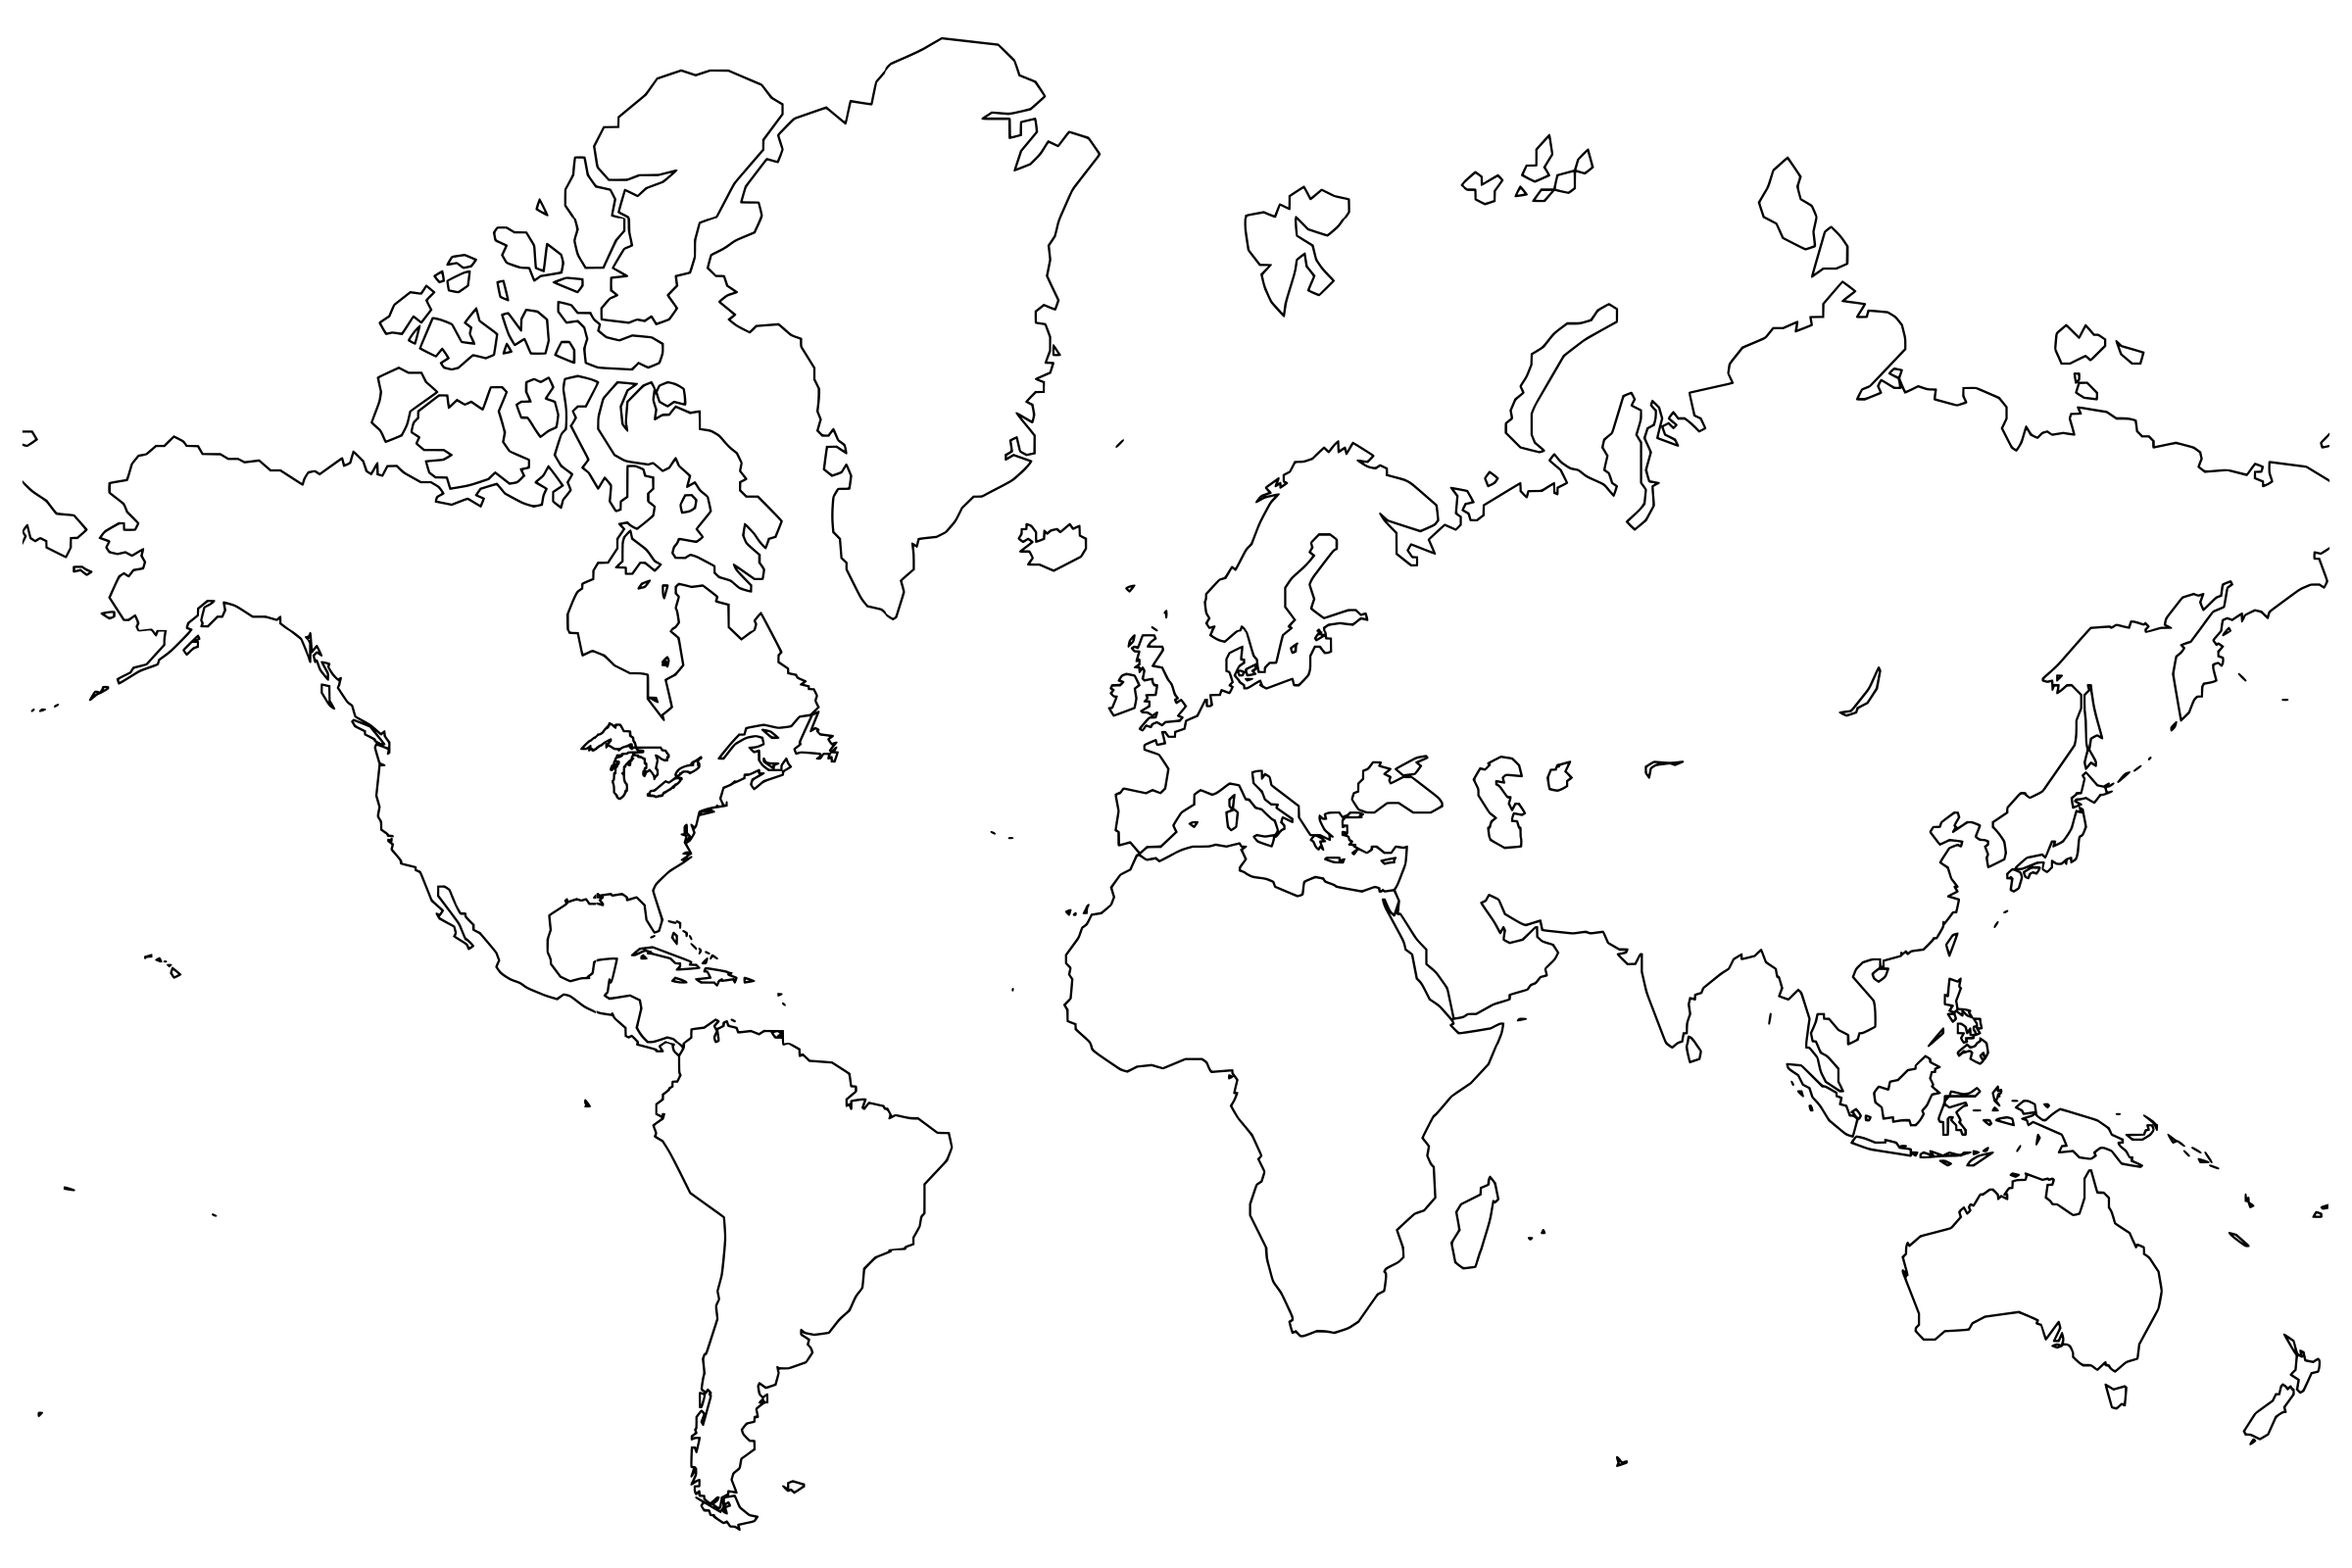
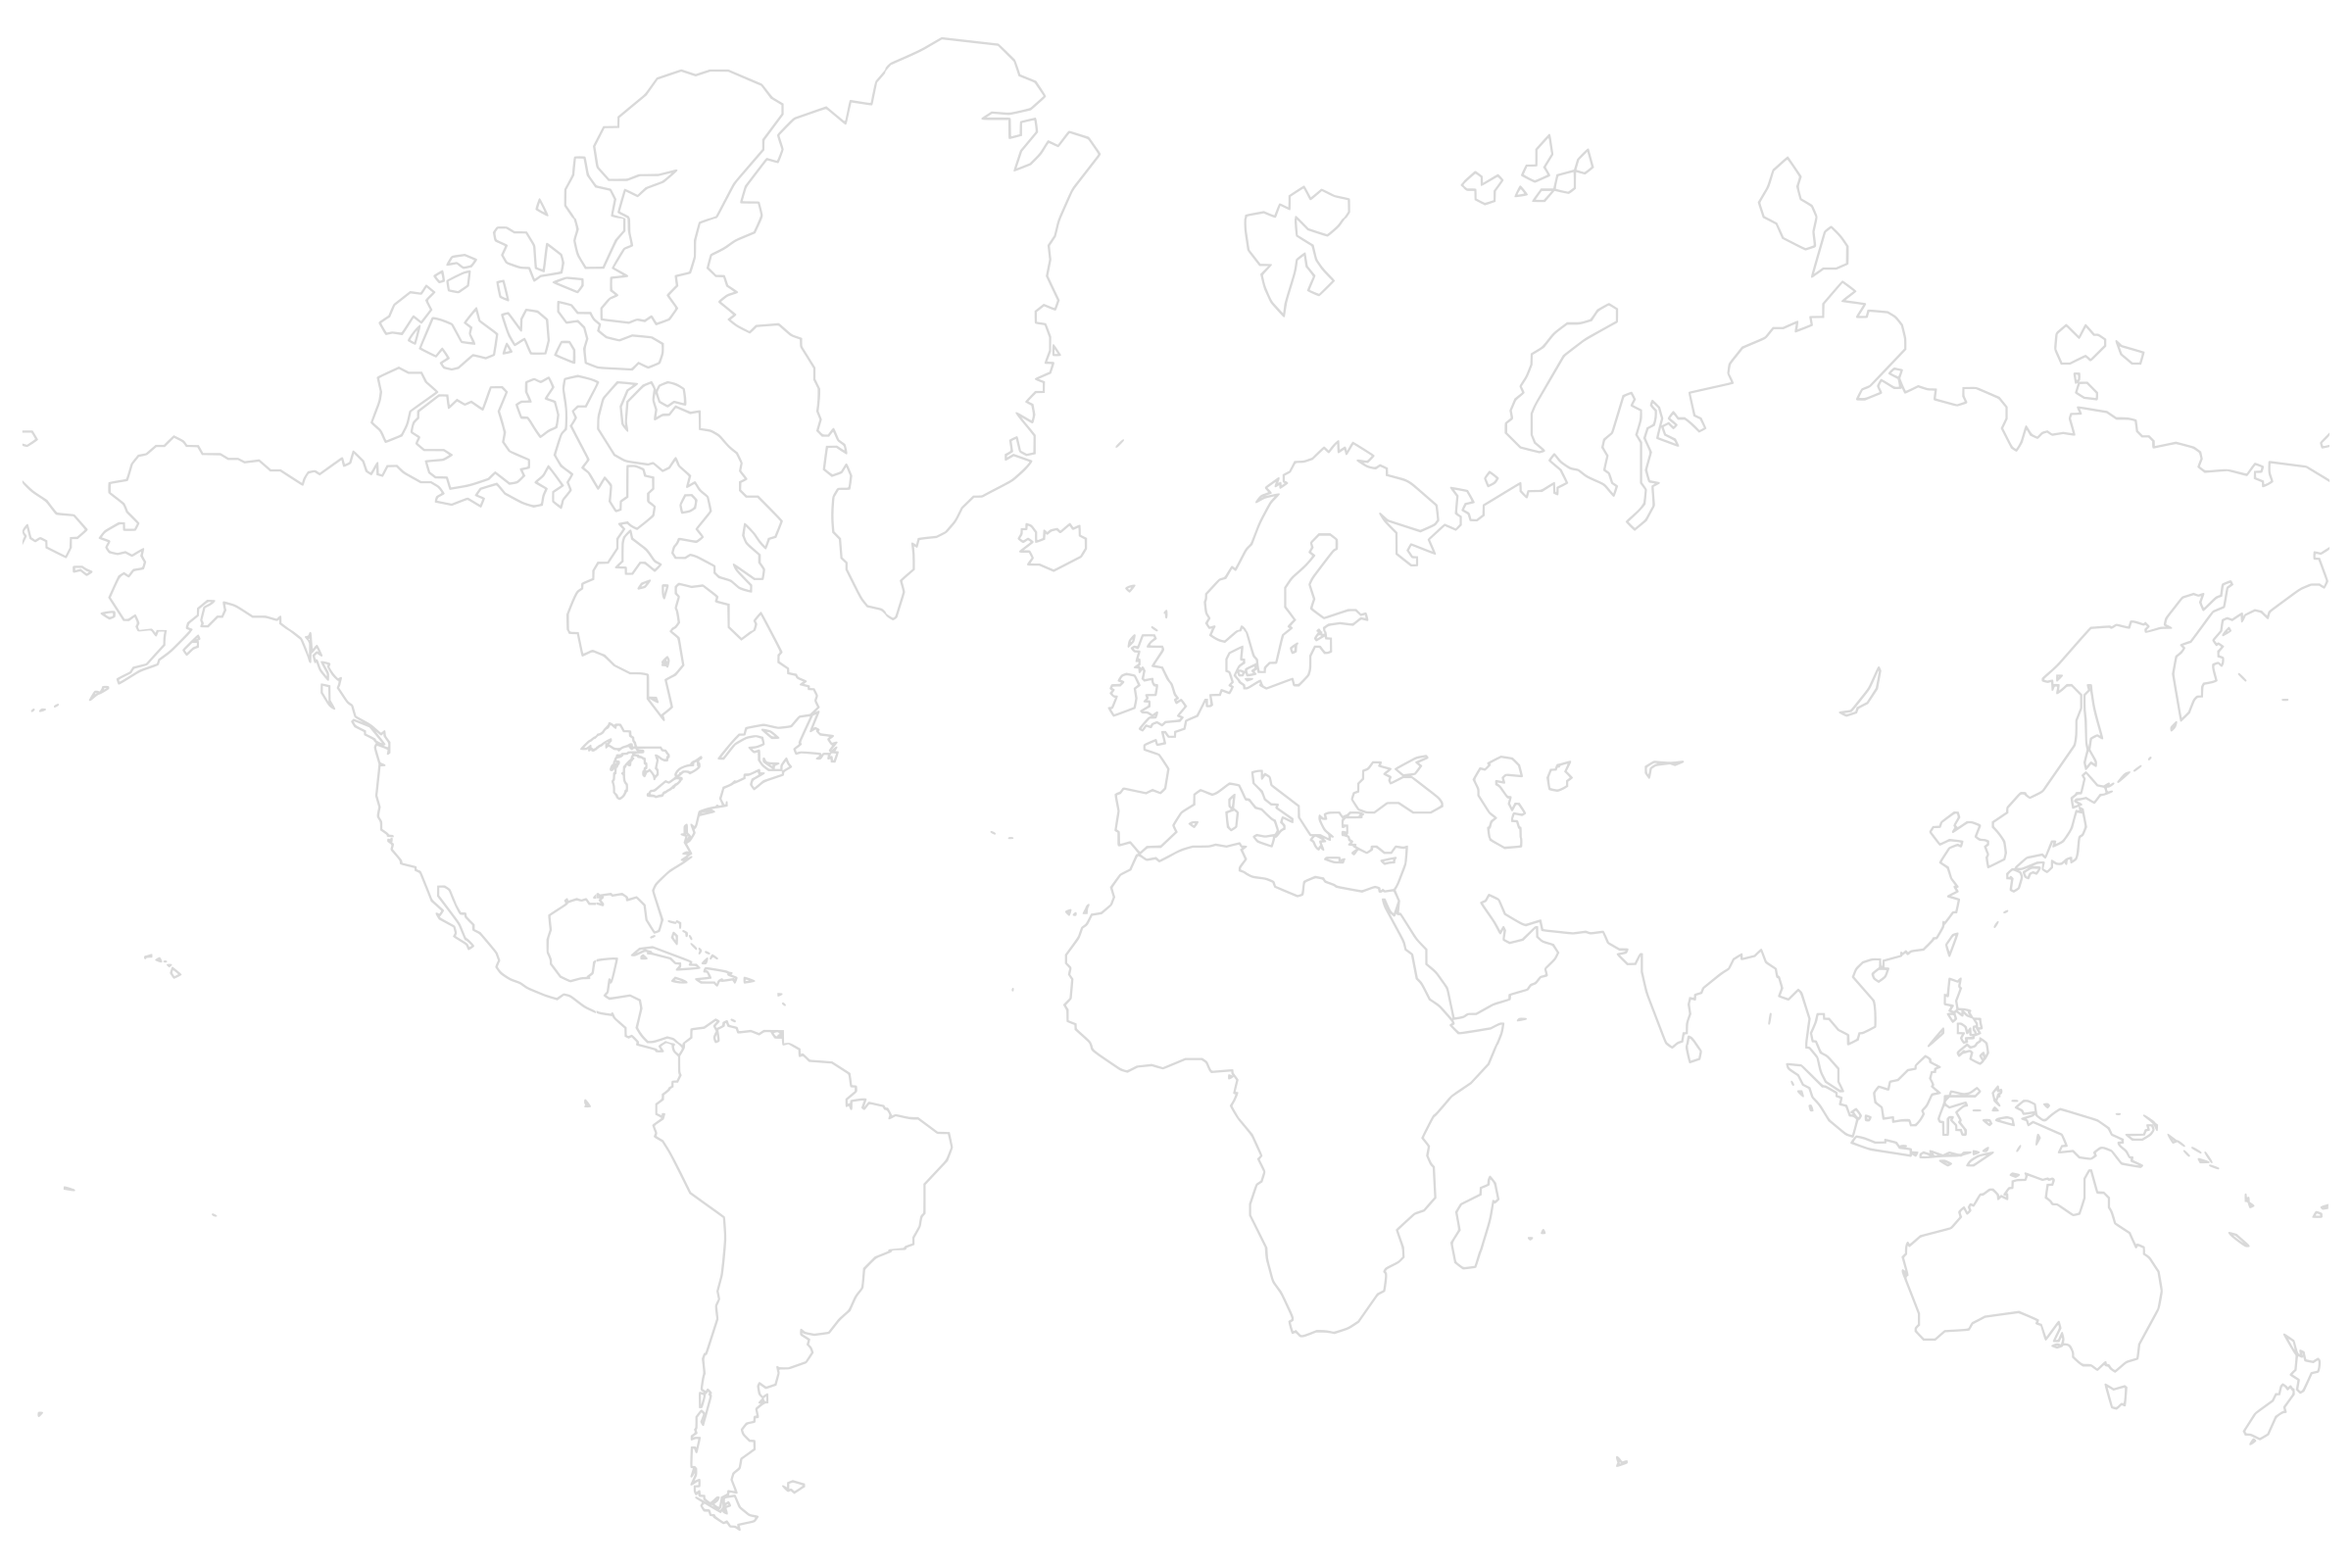
Updaitng  frontend

diff --git a/src/app/login/login.component.html b/src/app/login/login.component.html
@@ -1,39 +1,40 @@
-<div class="bg-continent"></div>
-<h1 class="text-center">
-     <span>
-        <img class="logo-main" src="assets/images/logo.png" alt="Logo Geocity">
-     </span>
-      Geocity
-</h1>
-<div class="container">
-    <div class="row">
-        <div class="col-md-4 col-md-offset-4 col-sm-4 col-sm-offset-4 col-xs-12 col-lg-4 col-lg-offset-4 ">
-            <h3 class="text-center">Ingresa a tu cuenta</h3> <br>       
-            <form [formGroup]="loginForm">
-                    <div class="form-group">
-                        <label for="email">Correo electrónico:</label>
-                        <input 
-                            class="form-control" 
-                            type="email" 
-                            placeholder="Ingresa un correo electrónico"
-                            formControlName="email">
-                    </div>
-                    <div class="form-group">
-                        <label for="password">Contraseña:</label>
-                        <input 
-                            class="form-control" 
-                            type="password"
-                            placeholder="Contraseña"
-                            formControlName="password">                            
-                    </div>
-                    <button mat-raised-button color="accent" type="submit" (click)="loginWithEmailAndPassword()">Acceder con mi correo</button>
-                    <hr>
-                    <p>Accede con tu cuenta de Gmail</p>
-                    <button mat-raised-button color="primary" type="submit" (click)="loginWithGoogleAccount()">Acceder con Google</button>
-                    <br>
-                    <hr>
-                    <p class="register-invitation">¿No tienes una cuenta? Da click <a routerLink="/register">aquí</a> y regístrate en Geocity.</p>
-            </form>
+<div class="bg-continent">
+    <div class="container container-upper">
+        <h1 class="text-center">
+             <span>
+            <img class="logo-main" src="assets/images/logo.png" alt="Logo Geocity">
+         </span>
+          Geocity
+        </h1>
+        <div class="row">
+            <div class="col-md-4 col-md-offset-4 col-sm-4 col-sm-offset-4 col-xs-12 col-lg-4 col-lg-offset-4 ">
+                <h3 class="text-center">Ingresa a tu cuenta</h3> <br>       
+                <form [formGroup]="loginForm">
+                        <div class="form-group">
+                            <label for="email">Correo electrónico:</label>
+                            <input 
+                                class="form-control" 
+                                type="email" 
+                                placeholder="Ingresa un correo electrónico"
+                                formControlName="email">
+                        </div>
+                        <div class="form-group">
+                            <label for="password">Contraseña:</label>
+                            <input 
+                                class="form-control" 
+                                type="password"
+                                placeholder="Contraseña"
+                                formControlName="password">                            
+                        </div>
+                        <button mat-raised-button color="accent" type="submit" (click)="loginWithEmailAndPassword()">Acceder con mi correo</button>
+                        <hr>
+                        <p>Accede con tu cuenta de Gmail</p>
+                        <button mat-raised-button color="primary" type="submit" (click)="loginWithGoogleAccount()">Acceder con Google</button>
+                        <br>
+                        <hr>
+                        <p class="register-invitation">¿No tienes una cuenta? Da click <a routerLink="/register">aquí</a> y regístrate en Geocity.</p>
+                </form>
+            </div>
         </div>
     </div>
 </div>

diff --git a/src/app/register/register.component.html b/src/app/register/register.component.html
@@ -1,12 +1,11 @@
-<header>
+<div class="bg-container">
+    <div class="container">
     <h1 class="text-center">
      <span>
         <img class="logo-main" src="assets/images/logo.png" alt="Logo Geocity">
      </span>
       Geocity
     </h1>
-</header>
-<div class="container">
     <div class="row">
             <div class="col-md-4 col-md-offset-4 col-sm-4 col-sm-offset-4 col-xs-12 col-lg-4 col-lg-offset-4 ">
             <h3 class="text-center">Registra una cuenta</h3> <br>       
@@ -66,7 +65,8 @@
                     </div>
                     -->
                     <button class="btn btn-info" type="submit">Acceder</button>
-            </form>
+                </form>
+            </div>
         </div>
-    </div>
-</div> 
+    </div> 
+</div>

diff --git a/src/app/login/login.component.css b/src/app/login/login.component.css
@@ -11,3 +11,9 @@ h1 {
    color: darkgrey;
    font-size: 1em;
 }
+.bg-continent {
+    width: 100vw;
+    height: 100vh;
+    background-size: cover;
+    background-image: url(../../assets/images/world-map.png);
+}
